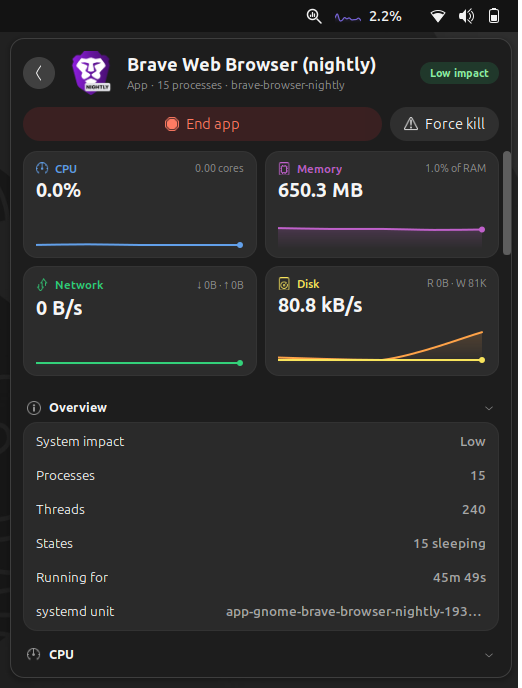
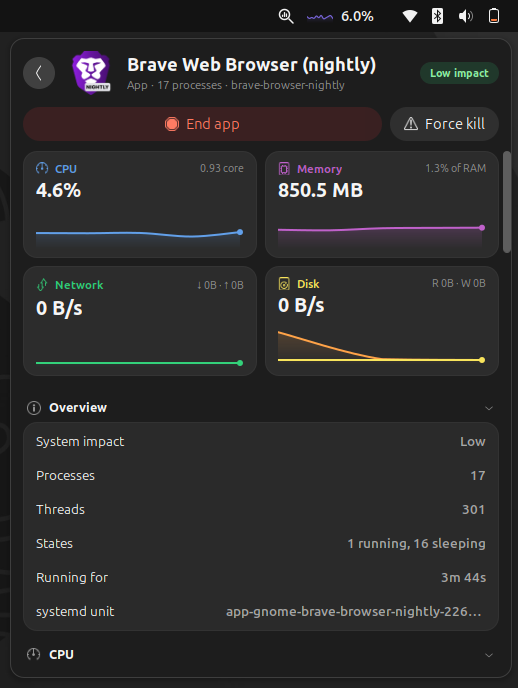
Fix shexli warnings for EGO review

diff --git a/lib/timers.js b/lib/timers.js
@@ -5,43 +5,46 @@ import GLib from 'gi://GLib';
 
 export class Timers {
     constructor() {
-        this._ids = new Set();
+        this._sourceIds = new Set();
     }
 
-    /** Run `fn` once after `ms` milliseconds. Returns the source id. */
-    after(ms, fn) {
-        const id = GLib.timeout_add(GLib.PRIORITY_DEFAULT, ms, () => {
-            this._ids.delete(id);
-            fn();
+    /** Run `callback` once after `milliseconds`. Returns the source id. */
+    after(milliseconds, callback) {
+        const sourceId = GLib.timeout_add(GLib.PRIORITY_DEFAULT, milliseconds, () => {
+            this._sourceIds.delete(sourceId);
+            callback();
             return GLib.SOURCE_REMOVE;
         });
-        this._ids.add(id);
-        return id;
+        this._sourceIds.add(sourceId);
+        return sourceId;
     }
 
     /**
-     * Run `fn` every `seconds` seconds until removed. Second-granularity timers
-     * are coalesced with other wakeups, so the CPU sleeps longer between them.
+     * Run `callback` every `seconds` seconds until removed. Second-granularity
+     * timers are coalesced with other wakeups, so the CPU sleeps longer between them.
      */
-    every(seconds, fn) {
-        const id = GLib.timeout_add_seconds(GLib.PRIORITY_DEFAULT, seconds, () => {
-            fn();
+    every(seconds, callback) {
+        const sourceId = GLib.timeout_add_seconds(GLib.PRIORITY_DEFAULT, seconds, () => {
+            callback();
             return GLib.SOURCE_CONTINUE;
         });
-        this._ids.add(id);
-        return id;
+        this._sourceIds.add(sourceId);
+        return sourceId;
     }
 
-    /** Remove one source (0 or an already finished id is fine). Returns 0 for `id = timers.remove(id)`. */
-    remove(id) {
-        if (id && this._ids.delete(id))
-            GLib.Source.remove(id);
+    /**
+     * Remove one source (0 or an already finished id is fine). Returns 0, for
+     * `sourceId = timers.remove(sourceId)`.
+     */
+    remove(sourceId) {
+        if (sourceId && this._sourceIds.delete(sourceId))
+            GLib.Source.remove(sourceId);
         return 0;
     }
 
     clear() {
-        for (const id of this._ids)
-            GLib.Source.remove(id);
-        this._ids.clear();
+        for (const sourceId of this._sourceIds)
+            GLib.Source.remove(sourceId);
+        this._sourceIds.clear();
     }
 }

diff --git a/lib/detailView.js b/lib/detailView.js
@@ -106,12 +106,23 @@ class ProcessRow {
         this._mem = label('', 'as-col as-col-mem');
         // Filled by the shared end button while hovered.
         this._slot = new St.Widget({style_class: 'as-col-action', layout_manager: new Clutter.BinLayout()});
-        this.actor.connect('notify::hover', () => this._sync());
-        this.actor.connect('key-focus-in', () => this._sync());
-        this.actor.connect('key-focus-out', () => this._sync());
-        this.actor.connect('destroy', () => this._sharedAction.release(this));
+        this.actor.connectObject(
+            'notify::hover', () => this._sync(),
+            'key-focus-in', () => this._sync(),
+            'key-focus-out', () => this._sync(),
+            this);
         for (const w of [this._pid, this._name, this._cpu, this._mem, this._slot])
             this.actor.add_child(w);
+    }
+
+    destroy() {
+        // The shared end button may sit in this row; take it out before the row goes.
+        this._sharedAction.release(this);
+        this.actor.disconnectObject(this);
+        this._slot.destroy();
+        this.actor.destroy();
+        this.actor = null;
+        this._pid = this._name = this._cpu = this._mem = this._slot = null;
     }
 
     _sync() {
@@ -364,7 +375,7 @@ export class DetailView {
             c.spark.setData([], 1);
         }
         for (const row of this._procRows.values())
-            row.actor.destroy();
+            row.destroy();
         this._procRows.clear();
         this._scroll.vadjustment.value = 0;
         this.updateGroup(group, null);
@@ -401,7 +412,7 @@ export class DetailView {
         const seen = new Set(shown.map(p => p.pid));
         for (const [pid, row] of this._procRows) {
             if (!seen.has(pid)) {
-                row.actor.destroy();
+                row.destroy();
                 this._procRows.delete(pid);
             }
         }
@@ -570,7 +581,7 @@ export class DetailView {
 
     destroy() {
         for (const row of this._procRows.values())
-            row.actor.destroy();
+            row.destroy();
         this._procRows.clear();
         this._procAction.destroy();
         this.actor.destroy();

diff --git a/lib/fsutil.js b/lib/fsutil.js
@@ -29,10 +29,15 @@ export async function readText(path, cancellable = null) {
 }
 
 /**
- * Read a small kernel-generated file synchronously. Only for files such as
- * /proc/PID/stat and statm that are produced from counters without waiting on
- * the target process or the disk; an async read costs ~15x more CPU in
- * thread-pool and promise overhead than the read itself.
+ * Read a small kernel-generated file synchronously. Only for /proc and cgroup
+ * files that the kernel fills from in-memory counters (/proc/stat, meminfo,
+ * loadavg, PID/stat, statm, status, io, single-value cgroup files): they never
+ * touch a disk or wait on the target process, so they can't block. Anything
+ * that can wait (cmdline, smaps_rollup, memory.stat) uses readText() instead.
+ *
+ * Measured in GNOME Shell, reading the stat and statm of ~140 processes costs
+ * 3 ms of CPU this way and ~28 ms with load_contents_async(), almost all of it
+ * thread-pool and promise overhead.
  */
 export function readProcSync(path) {
     try {
